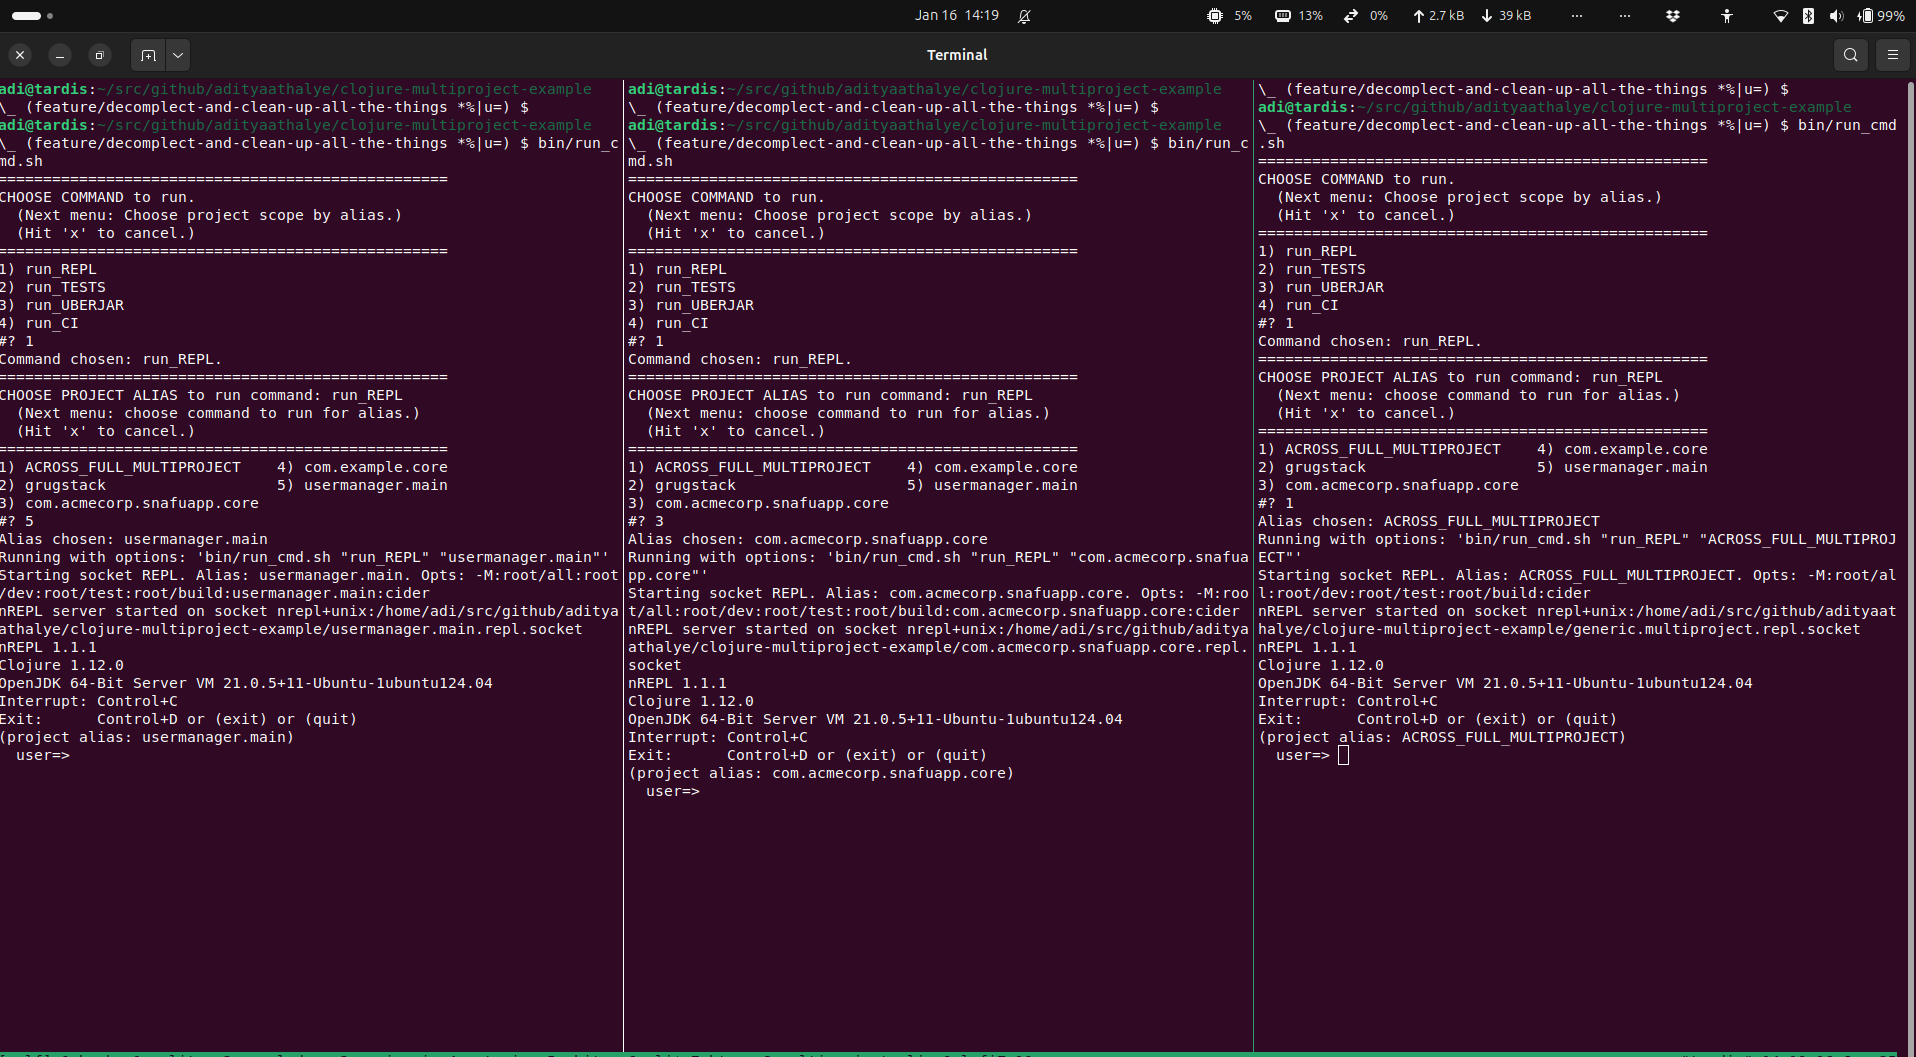
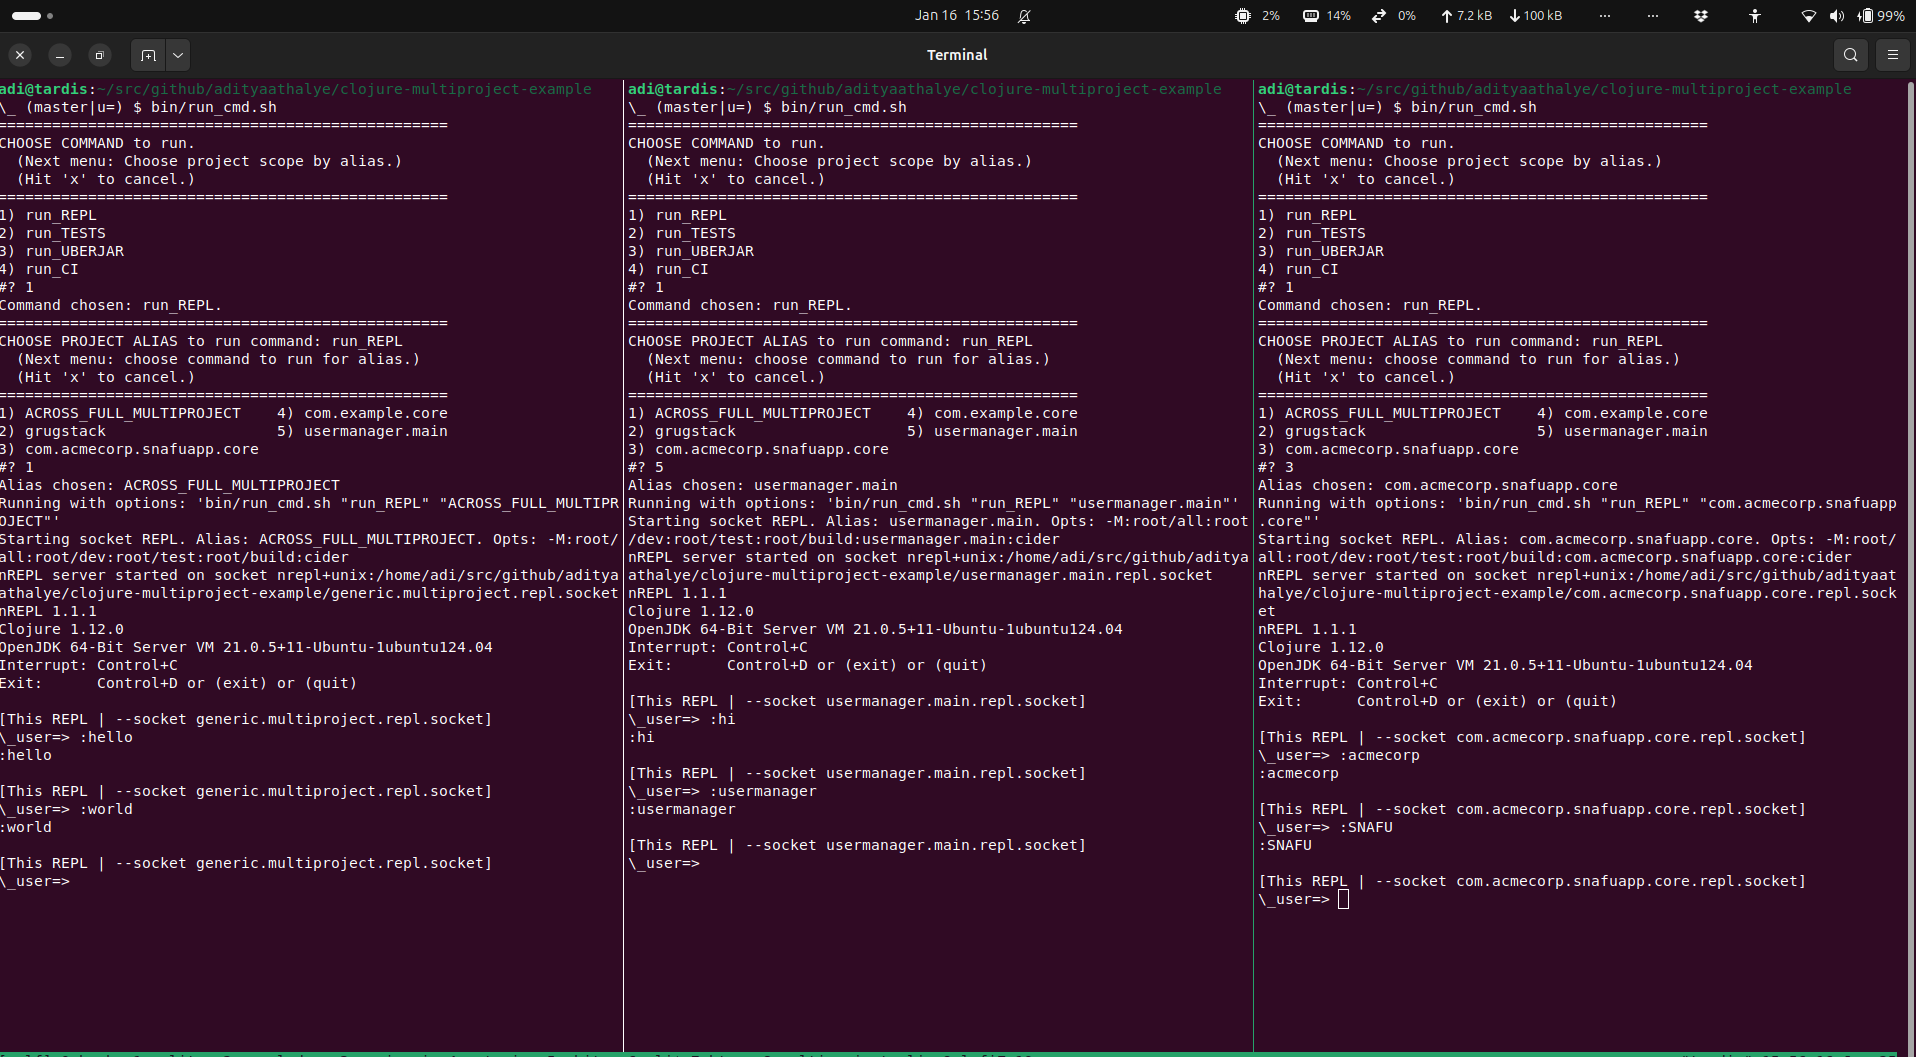
Improve fancy REPL prompt display, and stop using System/env
for input. Use information available in clojure.main's
`*command-line-args*`, as this will be reliably available to the REPL
user, out of the box.

diff --git a/README.md b/README.md
@@ -27,8 +27,8 @@ No idea is sacrosanct.
 Try from project root:
 
 - [Requirements](#requirements) must first be satisfied, of course.
-- The `bin/run_cmd.sh` helper builds and runs commands documented in
-  [Usage](#usage).
+- The `bin/run_cmd.sh` Bash helper script builds and runs commands
+  documented in [Usage](#usage).
 - *Following multiproject's `:app-alias` naming convention is key
   (haha) to success* (see [MultiProject Conventions](#multiproject-conventions)).
 
